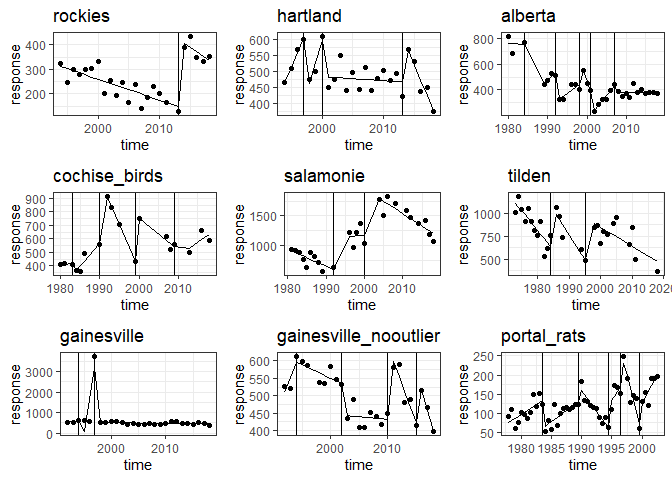
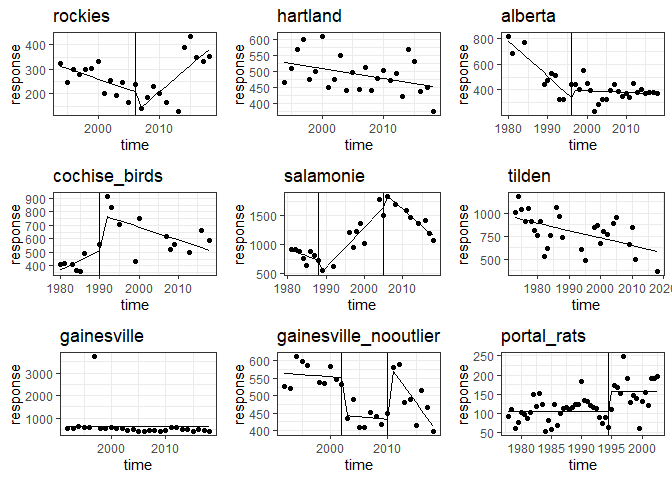
euclidean distance detour

diff --git a/stories/strucchange_gut.md b/stories/strucchange_gut.md
@@ -39,6 +39,8 @@ datasets <- data.frame(
 
 all_datasets <- list()
 
+all_eucl_dist_ts <- list()
+
 for(i in 1:nrow(datasets)) {
   
   if(datasets$dataset_name[i] != "portal_rats") {
@@ -56,8 +58,33 @@ for(i in 1:nrow(datasets)) {
              mean_mass = biomass/abundance,
              site_name = datasets$dataset_name[i])
     
+    species_matrix <- ibd %>%
+      select(year, id) %>%
+      group_by(year, id) %>%
+      summarize(abund = n()) %>%
+      ungroup() %>%
+      tidyr::pivot_wider(id_cols = year, names_from = id, values_from = abund, values_fill = 0)
+    
+    eucl_dist <- species_matrix %>%
+      select(year) %>%
+      distinct() %>%
+      mutate(dist_previous = NA)
+    
+    for(j in 2:nrow(eucl_dist)) {
+      
+      year_mat <- as.matrix(
+        filter(species_matrix, year %in% c(eucl_dist$year[j], eucl_dist$year[j-1])) %>%
+          select(-year)
+      )
+     
+      eucl_dist$dist_previous[j] <- dist(year_mat)
+      
+    }
+    
     if(datasets$dataset_name[i] == "gainesville_nooutlier") {
       sv <- filter(sv, abundance < 3000)
+      
+      eucl_dist <- filter(eucl_dist, year %in% sv$year)
     }
   } else {
     
@@ -88,29 +115,79 @@ for(i in 1:nrow(datasets)) {
              site_name = datasets$dataset_name[i]) %>%
       mutate(time = row_number())
     
+    species_matrix <- ibd %>%
+      select(year, id) %>%
+      group_by(year, id) %>%
+      summarize(abund = n()) %>%
+      ungroup() %>%
+      tidyr::pivot_wider(id_cols = year, names_from = id, values_from = abund, values_fill = 0)
+    
+    eucl_dist <- species_matrix %>%
+      select(year) %>%
+      distinct() %>%
+      mutate(dist_previous = NA)
+    
+    for(j in 2:nrow(eucl_dist)) {
+      
+      year_mat <- as.matrix(
+        filter(species_matrix, year %in% c(eucl_dist$year[j], eucl_dist$year[j-1])) %>%
+          select(-year)
+      )
+     
+      eucl_dist$dist_previous[j] <- dist(year_mat)
+      
+    }
   }
   
   all_datasets[[i]] <- sv
+  all_eucl_dist_ts[[i]] <- eucl_dist %>%
+     mutate(site_name = datasets$dataset_name[i])
+  
   
 }
 ```
 
     ## `summarise()` ungrouping output (override with `.groups` argument)
+
+    ## `summarise()` regrouping output by 'year' (override with `.groups` argument)
+
     ## `summarise()` ungrouping output (override with `.groups` argument)
+
+    ## `summarise()` regrouping output by 'year' (override with `.groups` argument)
+
     ## `summarise()` ungrouping output (override with `.groups` argument)
+
+    ## `summarise()` regrouping output by 'year' (override with `.groups` argument)
+
     ## `summarise()` ungrouping output (override with `.groups` argument)
+
+    ## `summarise()` regrouping output by 'year' (override with `.groups` argument)
+
     ## `summarise()` ungrouping output (override with `.groups` argument)
+
+    ## `summarise()` regrouping output by 'year' (override with `.groups` argument)
+
     ## `summarise()` ungrouping output (override with `.groups` argument)
+
+    ## `summarise()` regrouping output by 'year' (override with `.groups` argument)
+
     ## `summarise()` ungrouping output (override with `.groups` argument)
+
+    ## `summarise()` regrouping output by 'year' (override with `.groups` argument)
+
     ## `summarise()` ungrouping output (override with `.groups` argument)
+
+    ## `summarise()` regrouping output by 'year' (override with `.groups` argument)
 
     ## Loading in data version 2.18.0
 
     ## `summarise()` ungrouping output (override with `.groups` argument)
 
+    ## `summarise()` regrouping output by 'year' (override with `.groups` argument)
+
 ``` r
 all_datasets <- bind_rows(all_datasets)
-
+all_eucl_dist_ts <- bind_rows(all_eucl_dist_ts)
 gridExtra::grid.arrange(grobs = list(
   ggplot(all_datasets, aes(year, abundance, color = site_name)) +
   geom_line() +
@@ -250,7 +327,7 @@ abund_plots_h3 <- list()
 for(i in 1:nrow(datasets)) {
   thisdat <- subset_all_datasets(site = datasets$dataset_name[i], curr = "abundance", all_datasets = all_datasets)
   
-  abund_plots_h3[[i]] <- plot_breakpoint_fit(thisdat, h = 3)
+  abund_plots_h3[[i]] <- plot_breakpoint_fit(thisdat, h = .33)
 }
 
 gridExtra::grid.arrange(grobs = abund_plots_h3)
@@ -264,10 +341,12 @@ energy_plots_h3 <- list()
 for(i in 1:nrow(datasets)) {
   thisdat <- subset_all_datasets(site = datasets$dataset_name[i], curr = "energy", all_datasets = all_datasets)
   
-  energy_plots_h3[[i]] <- plot_breakpoint_fit(thisdat, h = 3)
+  energy_plots_h3[[i]] <- plot_breakpoint_fit(thisdat, h = .33)
 }
 
 gridExtra::grid.arrange(grobs = energy_plots_h3)
 ```
 
 ![](strucchange_gut_files/figure-gfm/h%20at%203-2.png)<!-- -->
+
+### Just for fun, Eucl dist
